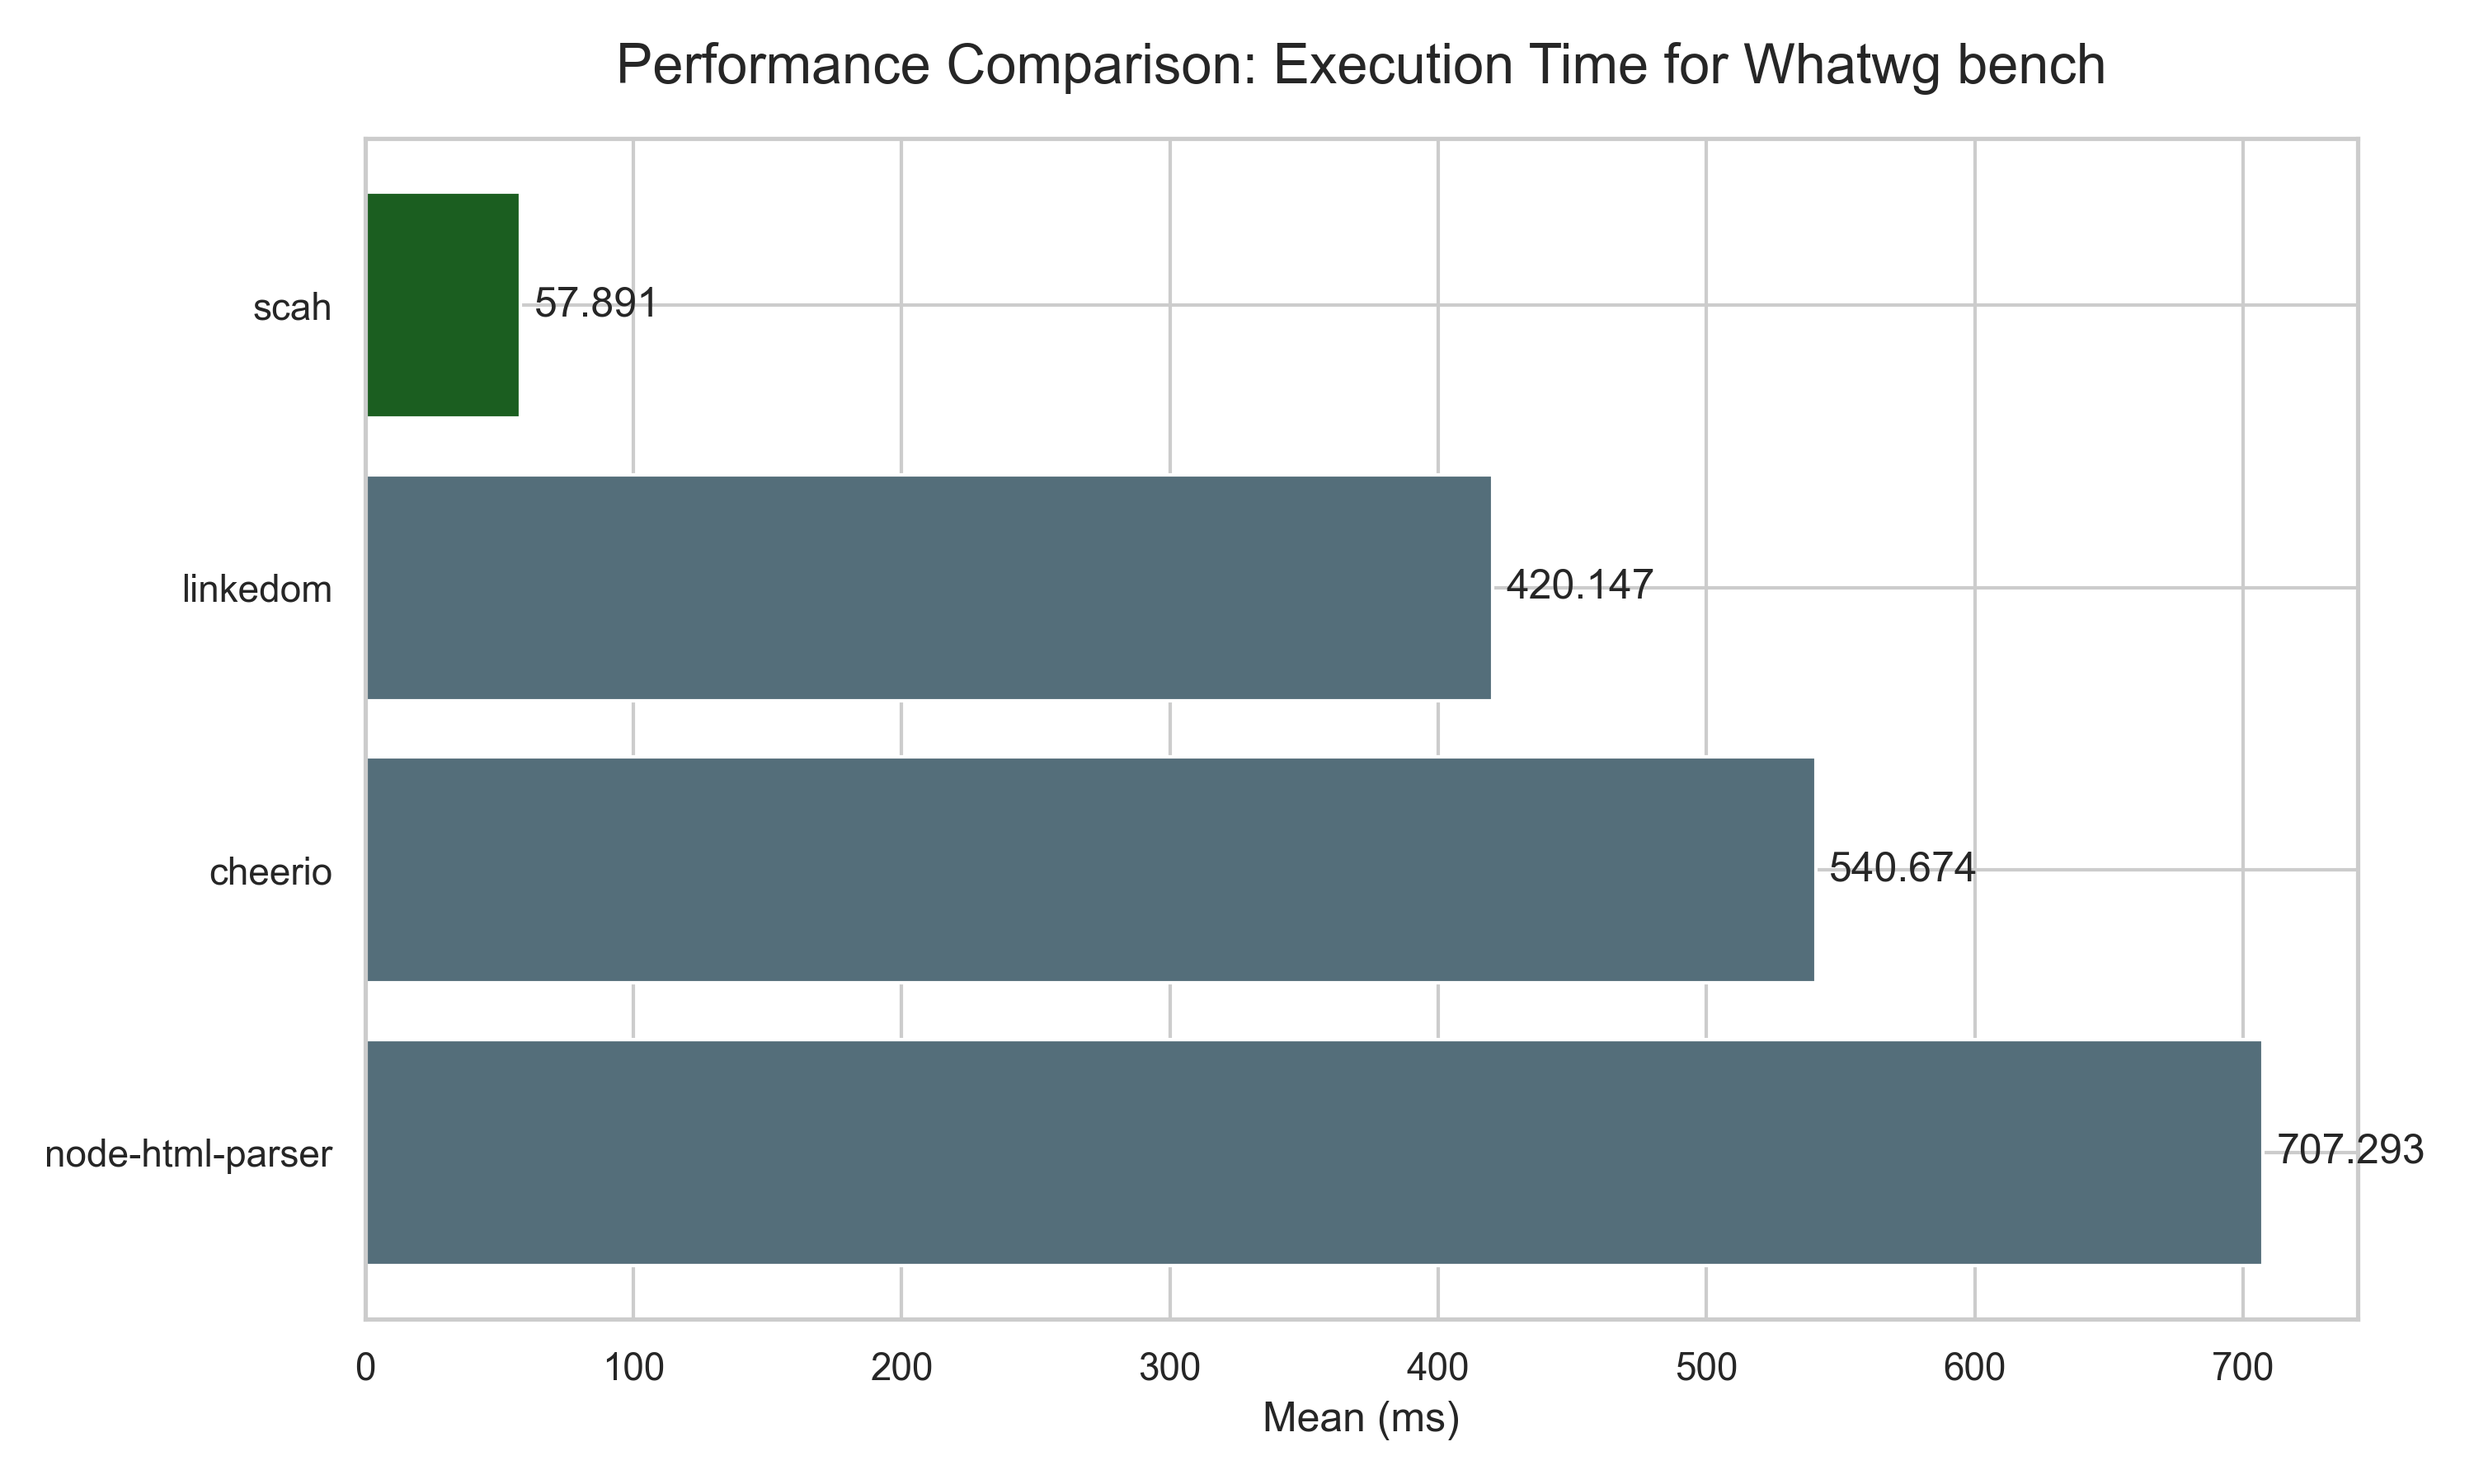
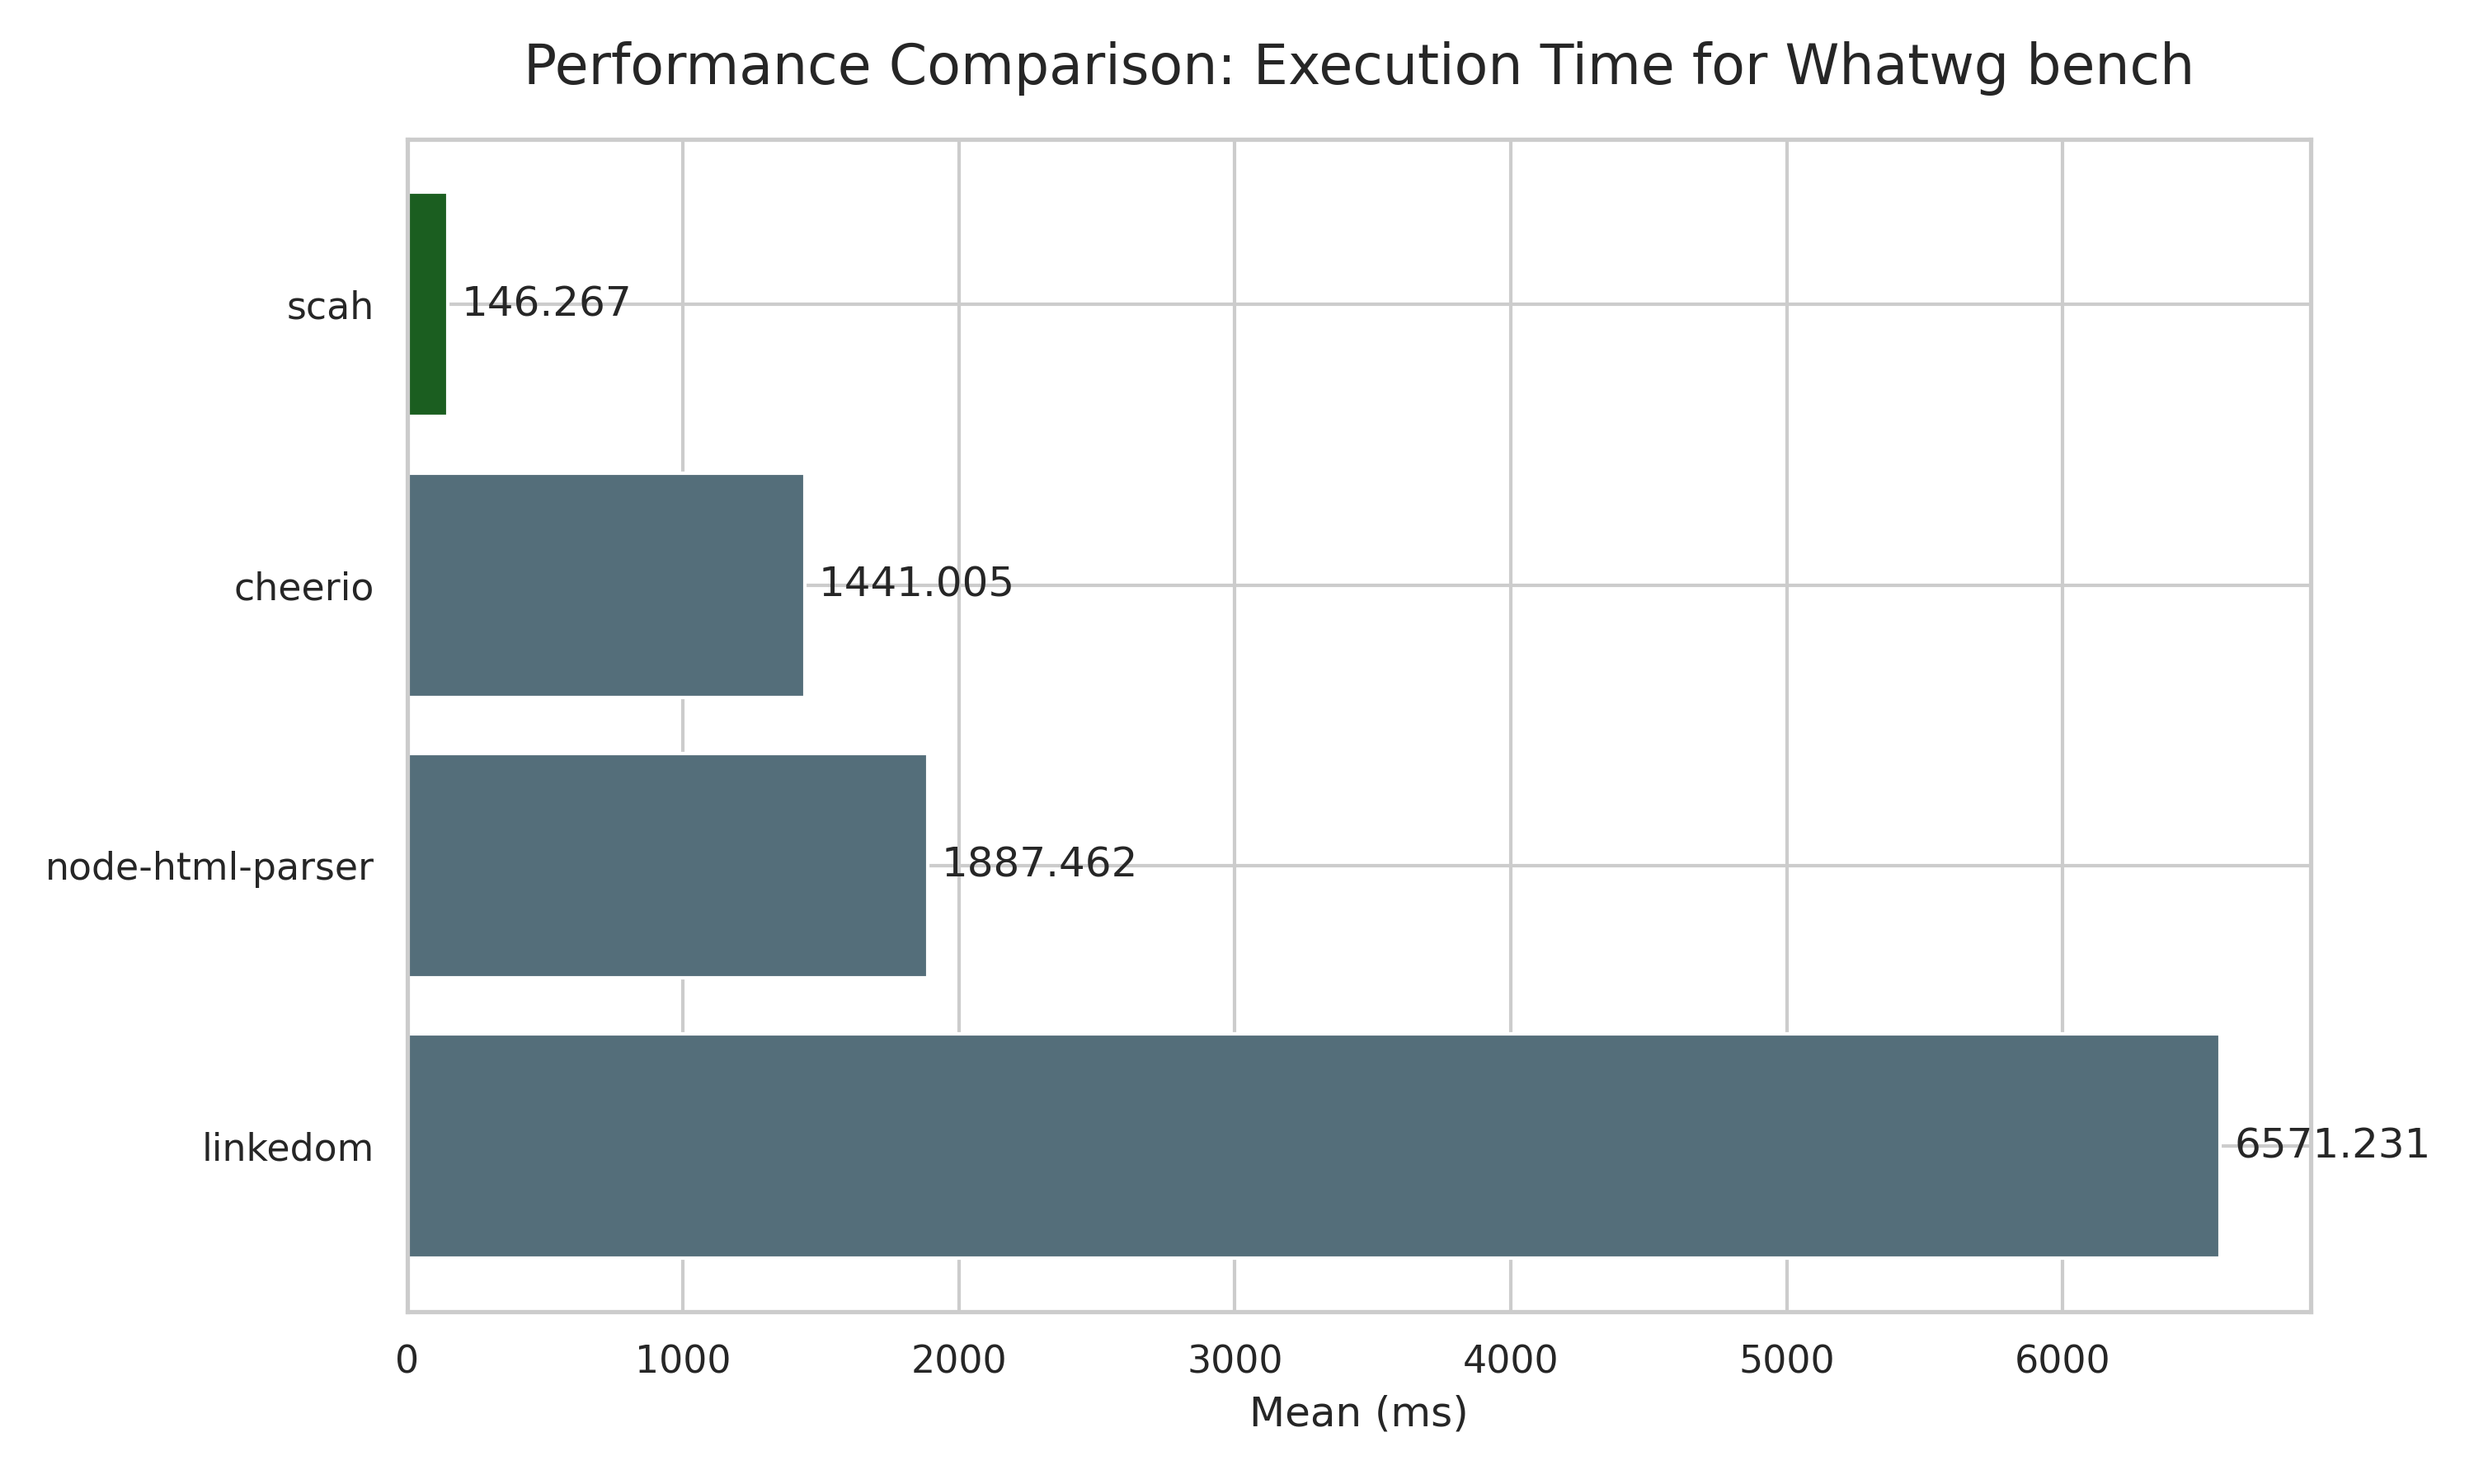
v0.0.21

diff --git a/crates/bindings/scah-node/benchmark/images/synthetic.md b/crates/bindings/scah-node/benchmark/images/synthetic.md
@@ -1,10 +1,10 @@
 # Synthetic Benchmark Report
 
-| Library          | Mean (ms)      | stdev    | multiplier |
-| :--------------- | :------------- | :------- | :--------- |
-| scah             | **5.302260**   | 0.907064 | 1x         |
-| linkedom         | **24.410154**  | 3.157122 | 4.6x       |
-| cheerio          | **30.391315**  | 1.222545 | 5.73x      |
-| happy-dom        | **78.305500**  | 7.789133 | 14.77x     |
-| node-html-parser | **103.388125** | 4.417629 | 19.5x      |
-| jsdom            | **109.433788** | 8.876794 | 20.64x     |
+| Library | Mean (ms) | stdev | multiplier |
+| :--- | :--- | :--- | :--- |
+| scah | **15.248387** | 2.090496 | 1x |
+| cheerio | **87.417827** | 8.681444 | 5.73x |
+| linkedom | **96.339570** | 11.681953 | 6.32x |
+| happy-dom | **319.813476** | 68.268110 | 20.97x |
+| jsdom | **403.596567** | 61.265309 | 26.47x |
+| node-html-parser | **462.310920** | 45.308827 | 30.32x |

diff --git a/crates/bindings/scah-node/benchmark/images/nested.md b/crates/bindings/scah-node/benchmark/images/nested.md
@@ -1,9 +1,9 @@
 # Nested Benchmark Report
 
-| Library          | Mean (ms)      | stdev     | multiplier |
-| :--------------- | :------------- | :-------- | :--------- |
-| scah             | **27.346216**  | 3.100238  | 1x         |
-| linkedom         | **76.700628**  | 8.804752  | 2.8x       |
-| cheerio          | **96.956129**  | 5.551734  | 3.55x      |
-| node-html-parser | **129.333271** | 19.915217 | 4.73x      |
-| jsdom            | **362.924202** | 88.057259 | 13.27x     |
+| Library | Mean (ms) | stdev | multiplier |
+| :--- | :--- | :--- | :--- |
+| scah | **72.700920** | 8.299298 | 1x |
+| linkedom | **218.317865** | 18.787366 | 3x |
+| cheerio | **252.738137** | 11.272369 | 3.48x |
+| node-html-parser | **393.273238** | 95.295534 | 5.41x |
+| jsdom | **1,012.810471** | 168.713565 | 13.93x |

diff --git a/crates/bindings/scah-node/benchmark/images/whatwg.md b/crates/bindings/scah-node/benchmark/images/whatwg.md
@@ -1,8 +1,8 @@
 # Whatwg Benchmark Report
 
-| Library          | Mean (ms)      | stdev      | multiplier |
-| :--------------- | :------------- | :--------- | :--------- |
-| scah             | **57.891190**  | 3.669321   | 1x         |
-| linkedom         | **420.146805** | 177.607558 | 7.26x      |
-| cheerio          | **540.674035** | 29.571992  | 9.34x      |
-| node-html-parser | **707.293309** | 28.933410  | 12.22x     |
+| Library | Mean (ms) | stdev | multiplier |
+| :--- | :--- | :--- | :--- |
+| scah | **146.267183** | 18.614416 | 1x |
+| cheerio | **1,441.005123** | 77.146941 | 9.85x |
+| node-html-parser | **1,887.461627** | 55.297171 | 12.9x |
+| linkedom | **6,571.230916** | 6,574.421441 | 44.93x |

diff --git a/crates/bindings/scah-python/benches/images/whatwg.md b/crates/bindings/scah-python/benches/images/whatwg.md
@@ -2,9 +2,9 @@
 
 | Library | Mean (ms) | stdev | multiplier |
 | :--- | :--- | :--- | :--- |
-| Scah | **52.203939** | 3.757941 | 1x |
-| Selectolax | **143.023167** | 2.674209 | 2.74x |
-| lxml | **359.881425** | 5.821705 | 6.89x |
-| Parsel | **673.563508** | 5.502256 | 12.9x |
-| Gazpacho | **1,637.216892** | 6.151786 | 31.36x |
-| BS4 (lxml) | **2,516.724850** | 389.778034 | 48.21x |
+| Scah | **115.621425** | 8.431628 | 1x |
+| Selectolax | **340.430453** | 9.725557 | 2.94x |
+| lxml | **769.386151** | 7.158060 | 6.65x |
+| Parsel | **1,797.527487** | 15.829262 | 15.55x |
+| Gazpacho | **3,814.067066** | 10.931782 | 32.99x |
+| BS4 (lxml) | **5,449.638127** | 283.404282 | 47.13x |

diff --git a/crates/bindings/scah-python/benches/images/synthetic.md b/crates/bindings/scah-python/benches/images/synthetic.md
@@ -2,9 +2,9 @@
 
 | Library | Mean (ms) | stdev | multiplier |
 | :--- | :--- | :--- | :--- |
-| Scah | **3.728561** | 0.406445 | 1x |
-| Selectolax | **8.066475** | 0.512855 | 2.16x |
-| lxml | **24.794239** | 0.229981 | 6.65x |
-| Parsel | **76.960953** | 3.008175 | 20.64x |
-| BS4 (lxml) | **112.812908** | 2.160341 | 30.26x |
-| Gazpacho | **128.430065** | 0.549837 | 34.44x |
+| Scah | **8.612478** | 0.340198 | 1x |
+| Selectolax | **21.186458** | 0.444657 | 2.46x |
+| lxml | **53.034731** | 0.342591 | 6.16x |
+| Parsel | **200.028617** | 0.778658 | 23.23x |
+| BS4 (lxml) | **248.261306** | 0.816299 | 28.83x |
+| Gazpacho | **556.049321** | 1,075.993797 | 64.56x |

diff --git a/crates/bindings/scah-python/benches/images/nested.md b/crates/bindings/scah-python/benches/images/nested.md
@@ -2,8 +2,8 @@
 
 | Library | Mean (ms) | stdev | multiplier |
 | :--- | :--- | :--- | :--- |
-| Scah | **12.470755** | 0.596550 | 1x |
-| Selectolax | **66.938622** | 0.498506 | 5.37x |
-| Parsel | **301.365925** | 24.076119 | 24.17x |
-| lxml | **316.272791** | 2.477959 | 25.36x |
-| BS4 (lxml) | **839.663017** | 63.421209 | 67.33x |
+| Scah | **25.236889** | 1.258544 | 1x |
+| Selectolax | **162.185541** | 37.247064 | 6.43x |
+| Parsel | **767.200611** | 5.964915 | 30.4x |
+| lxml | **969.567387** | 1.206766 | 38.42x |
+| BS4 (lxml) | **2,151.445949** | 21.299330 | 85.25x |

diff --git a/README.md b/README.md
@@ -21,7 +21,7 @@
 ```toml
 # Cargo.toml
 [dependencies]
-scah = "0.0.20"
+scah = "0.0.21"
 ```
 
 #### Basic usage
